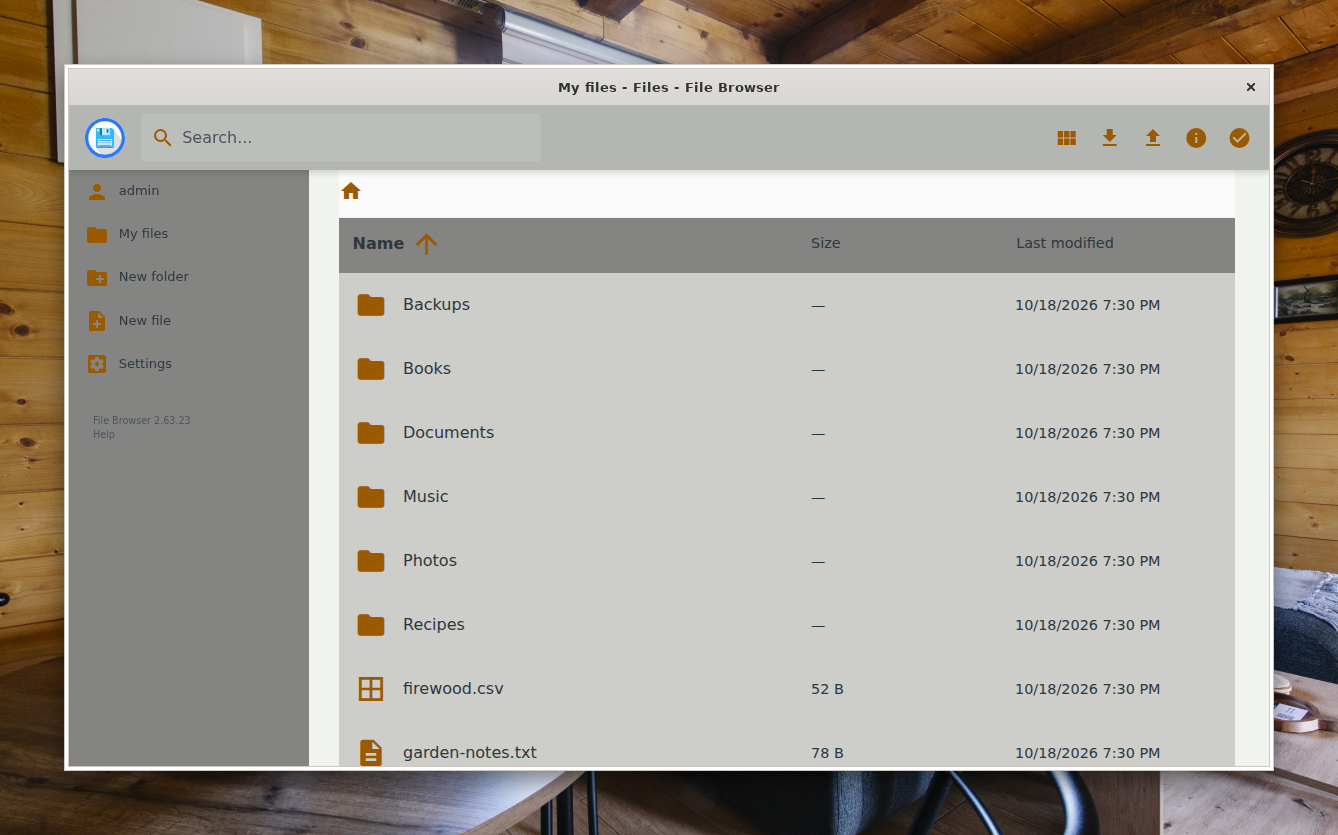
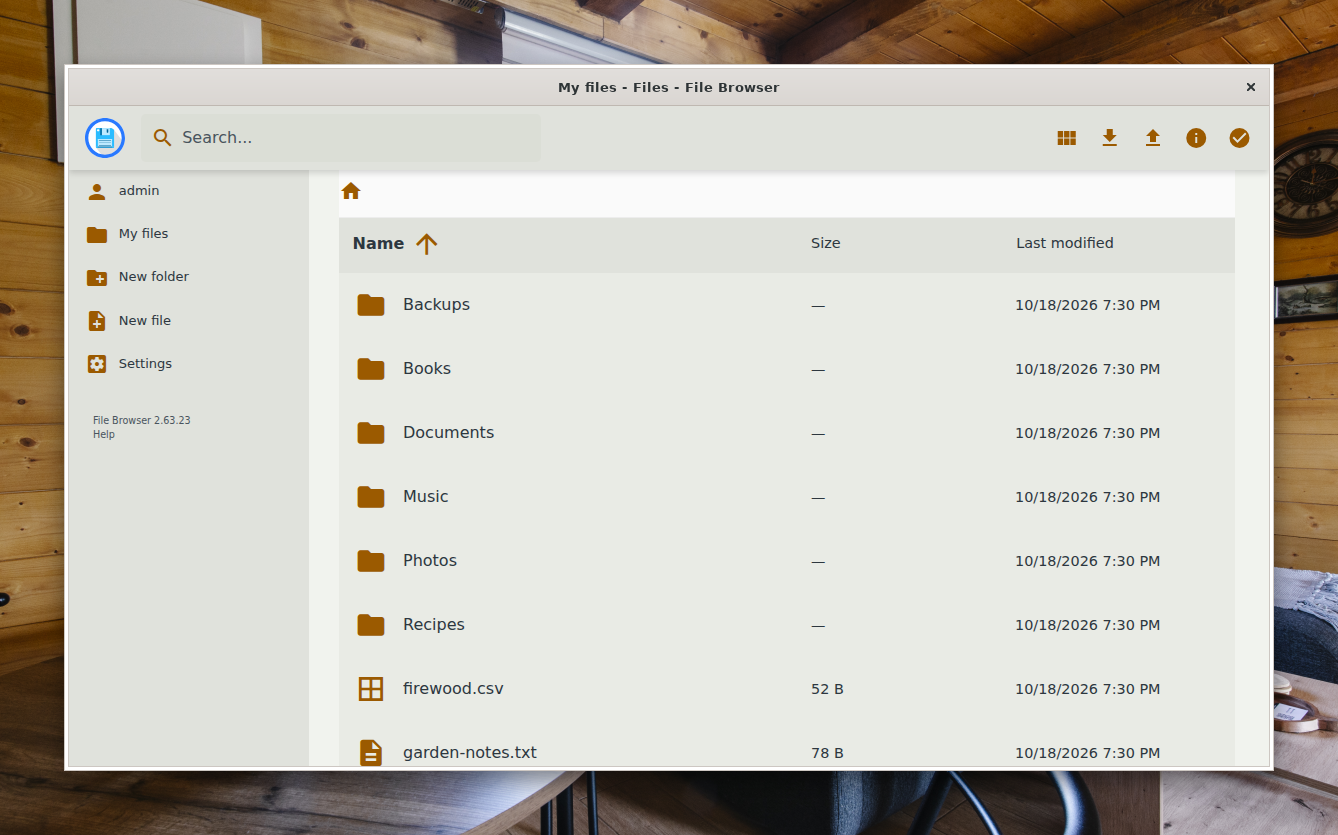
Record owner approval: Tested with lines, solid theme.park tints (#108)
* Record owner approval: Tested with lines, solid theme.park tints

- Set "Tested with" on the 41 ports the owner approved, from each recipe's app
  version and the OS it shot.
- theme.park: override theme.park's see-through tints with solid neutrals, so
  Day's header, sidebar and rows match the other Day ports. New shots.
- Bash MAPPING: the owner kept the accent wash for paste.

* Set theme.park's Tested with line

---------

diff --git a/Ports/theme-park/template/{{variant.slug}}.css b/Ports/theme-park/template/{{variant.slug}}.css
@@ -67,4 +67,47 @@
   --plex-poster-unwatched: {{ivy}};
   --gitea-color-primary-dark-4: var(--accent-color);
   --overseerr-gradient: linear-gradient(var(--main-bg-color), var(--main-bg-color));
+
+  /* theme.park's base CSS lays see-through black and white tints over
+     headers, sidebars, rows and inputs. The theme is solid, so each tint
+     is a neutral: light black tints are deep, heavier ones deeper, and
+     white tints (hover and focus) are hover, or raised at the top. */
+  --transparency-dark-05: {{deep}};
+  --transparency-dark-10: {{deep}};
+  --transparency-dark-15: {{deep}};
+  --transparency-dark-20: {{deep}};
+  --transparency-dark-25: {{deeper}};
+  --transparency-dark-30: {{deeper}};
+  --transparency-dark-35: {{deeper}};
+  --transparency-dark-40: {{deeper}};
+  --transparency-dark-45: {{deeper}};
+  --transparency-dark-50: {{deeper}};
+  --transparency-dark-55: {{deeper}};
+  --transparency-dark-60: {{deeper}};
+  --transparency-dark-65: {{deeper}};
+  --transparency-dark-70: {{deeper}};
+  --transparency-dark-75: {{deeper}};
+  --transparency-dark-80: {{deeper}};
+  --transparency-dark-85: {{deeper}};
+  --transparency-dark-90: {{deeper}};
+  --transparency-dark-95: {{deeper}};
+  --transparency-light-05: {{hover}};
+  --transparency-light-10: {{hover}};
+  --transparency-light-15: {{hover}};
+  --transparency-light-20: {{hover}};
+  --transparency-light-25: {{hover}};
+  --transparency-light-30: {{hover}};
+  --transparency-light-35: {{hover}};
+  --transparency-light-40: {{hover}};
+  --transparency-light-45: {{hover}};
+  --transparency-light-50: {{hover}};
+  --transparency-light-55: {{hover}};
+  --transparency-light-60: {{hover}};
+  --transparency-light-65: {{hover}};
+  --transparency-light-70: {{hover}};
+  --transparency-light-75: {{hover}};
+  --transparency-light-80: {{hover}};
+  --transparency-light-85: {{hover}};
+  --transparency-light-90: {{raised}};
+  --transparency-light-95: {{raised}};
 }

diff --git a/Ports/theme-park/dist/day/inglenook-day.css b/Ports/theme-park/dist/day/inglenook-day.css
@@ -67,4 +67,47 @@
   --plex-poster-unwatched: #135b42;
   --gitea-color-primary-dark-4: var(--accent-color);
   --overseerr-gradient: linear-gradient(var(--main-bg-color), var(--main-bg-color));
+
+  /* theme.park's base CSS lays see-through black and white tints over
+     headers, sidebars, rows and inputs. The theme is solid, so each tint
+     is a neutral: light black tints are deep, heavier ones deeper, and
+     white tints (hover and focus) are hover, or raised at the top. */
+  --transparency-dark-05: #e9ebe5;
+  --transparency-dark-10: #e9ebe5;
+  --transparency-dark-15: #e9ebe5;
+  --transparency-dark-20: #e9ebe5;
+  --transparency-dark-25: #e0e2dc;
+  --transparency-dark-30: #e0e2dc;
+  --transparency-dark-35: #e0e2dc;
+  --transparency-dark-40: #e0e2dc;
+  --transparency-dark-45: #e0e2dc;
+  --transparency-dark-50: #e0e2dc;
+  --transparency-dark-55: #e0e2dc;
+  --transparency-dark-60: #e0e2dc;
+  --transparency-dark-65: #e0e2dc;
+  --transparency-dark-70: #e0e2dc;
+  --transparency-dark-75: #e0e2dc;
+  --transparency-dark-80: #e0e2dc;
+  --transparency-dark-85: #e0e2dc;
+  --transparency-dark-90: #e0e2dc;
+  --transparency-dark-95: #e0e2dc;
+  --transparency-light-05: #dbded6;
+  --transparency-light-10: #dbded6;
+  --transparency-light-15: #dbded6;
+  --transparency-light-20: #dbded6;
+  --transparency-light-25: #dbded6;
+  --transparency-light-30: #dbded6;
+  --transparency-light-35: #dbded6;
+  --transparency-light-40: #dbded6;
+  --transparency-light-45: #dbded6;
+  --transparency-light-50: #dbded6;
+  --transparency-light-55: #dbded6;
+  --transparency-light-60: #dbded6;
+  --transparency-light-65: #dbded6;
+  --transparency-light-70: #dbded6;
+  --transparency-light-75: #dbded6;
+  --transparency-light-80: #dbded6;
+  --transparency-light-85: #dbded6;
+  --transparency-light-90: #f9fbf8;
+  --transparency-light-95: #f9fbf8;
 }

diff --git a/Ports/theme-park/dist/night/inglenook-night.css b/Ports/theme-park/dist/night/inglenook-night.css
@@ -67,4 +67,47 @@
   --plex-poster-unwatched: #5c947c;
   --gitea-color-primary-dark-4: var(--accent-color);
   --overseerr-gradient: linear-gradient(var(--main-bg-color), var(--main-bg-color));
+
+  /* theme.park's base CSS lays see-through black and white tints over
+     headers, sidebars, rows and inputs. The theme is solid, so each tint
+     is a neutral: light black tints are deep, heavier ones deeper, and
+     white tints (hover and focus) are hover, or raised at the top. */
+  --transparency-dark-05: #171412;
+  --transparency-dark-10: #171412;
+  --transparency-dark-15: #171412;
+  --transparency-dark-20: #171412;
+  --transparency-dark-25: #12100e;
+  --transparency-dark-30: #12100e;
+  --transparency-dark-35: #12100e;
+  --transparency-dark-40: #12100e;
+  --transparency-dark-45: #12100e;
+  --transparency-dark-50: #12100e;
+  --transparency-dark-55: #12100e;
+  --transparency-dark-60: #12100e;
+  --transparency-dark-65: #12100e;
+  --transparency-dark-70: #12100e;
+  --transparency-dark-75: #12100e;
+  --transparency-dark-80: #12100e;
+  --transparency-dark-85: #12100e;
+  --transparency-dark-90: #12100e;
+  --transparency-dark-95: #12100e;
+  --transparency-light-05: #312e2c;
+  --transparency-light-10: #312e2c;
+  --transparency-light-15: #312e2c;
+  --transparency-light-20: #312e2c;
+  --transparency-light-25: #312e2c;
+  --transparency-light-30: #312e2c;
+  --transparency-light-35: #312e2c;
+  --transparency-light-40: #312e2c;
+  --transparency-light-45: #312e2c;
+  --transparency-light-50: #312e2c;
+  --transparency-light-55: #312e2c;
+  --transparency-light-60: #312e2c;
+  --transparency-light-65: #312e2c;
+  --transparency-light-70: #312e2c;
+  --transparency-light-75: #312e2c;
+  --transparency-light-80: #312e2c;
+  --transparency-light-85: #312e2c;
+  --transparency-light-90: #262321;
+  --transparency-light-95: #262321;
 }

diff --git a/Ports/theme-park/MAPPING.md b/Ports/theme-park/MAPPING.md
@@ -25,12 +25,16 @@ The port is one theme option per variant: the variables theme.park's per-app bas
 | `--plex-poster-unwatched` | ivy | A badge on posters that carries no state, so a detail color |
 | `--gitea-color-primary-dark-4` | `var(--accent-color)` | Same as Catppuccin and theme.park's own options |
 | `--overseerr-gradient` | `linear-gradient(var(--main-bg-color), var(--main-bg-color))` | Overseerr needs a gradient here. A gradient of one solid color is a solid page |
+| `--transparency-dark-05` to `-20` | deep | theme.park's light black tints: rows, cards, search boxes. A step below the page |
+| `--transparency-dark-25` to `-95` | deeper | Heavier black tints: the header, the sidebar, column headings, inputs. The most recessed surfaces |
+| `--transparency-light-05` to `-85` | hover | White tints mark hover and focus (a hovered row, the search field) |
+| `--transparency-light-90`, `-95` | raised | Near-opaque white: a lifted surface |
 | `--petio-spinner` | not set | It is a CSS `filter` chain that tints Petio's spinner from black. Those numbers encode a color outside the palette, so the port leaves it out and the spinner keeps its own color |
 
 ## Gaps and trade-offs
 
 - Tier 2. theme.park's theme options are about fifteen variables: surfaces, buttons, text, links and one accent. Status colors (errors, warnings, health), charts, syntax and posters stay as each app or base file draws them.
-- theme.park's base CSS sets `--transparency-dark-*` and `--transparency-light-*` (black and white at 5 to 95% alpha) and lays them over sidebars, headers, rows and menus. They are not part of a theme option and the port does not override them: making them solid would hide what sits under them. The README names this under Known limits. It shows most in Day, where dark tints turn the File Browser header and sidebar gray.
+- theme.park's base CSS sets `--transparency-dark-*` and `--transparency-light-*` (black and white at 5 to 95% alpha) and lays them over sidebars, headers, rows, inputs and menus. The theme option overrides every one with a solid neutral (table above), so surfaces stay solid: in Day the dark tints had turned the File Browser header, sidebar and rows gray. Where an app lays a tint over a picture (a poster, a backdrop), the solid neutral now covers the picture.
 - theme.park is built for dark themes (Catppuccin says so for its light flavor). Some base files use white text or light tints that assume a dark page. Day ships anyway, with the limit in the README.
 - File Browser's breadcrumb bar comes from File Browser's own light or dark mode, not from theme.park: near-white in Day, a dark blue-gray in Night. The scene sets the mode to match the variant (dark for Night), as a reader would; with the light mode, Night showed a white bar.
 - Not in the scene: modals, menus, buttons and their hover (`--button-*`, `--modal-*`, `--drop-down-menu-bg`), links (File Browser shows none in the listing), `--label-text-color`, and the app-specific specials (Servarr queue, Plex, Gitea, Overseerr). They follow the same roles as what the scene shows.
@@ -51,4 +55,4 @@ The port is one theme option per variant: the variables theme.park's per-app bas
   - That stylesheet reaches the page through File Browser's own branding folder (`custom.css`, https://github.com/filebrowser/filebrowser/blob/master/docs/customization.md) in place of Stylus, the Docker mod or `sub_filter`, which all add the same two stylesheets.
   - File Browser's own mode (Settings, Global Settings) is set to dark for Night and light for Day in the scene's database.
 - `build/photograph/scenes/web/theme-park/`: `stage.sh` writes a small folder with fixed dates and File Browser's database (absolute dates, no disk-usage meter, no external links); `serve.sh` starts File Browser on 127.0.0.1:8080 and opens it in the web scene's browser.
-- **Shown:** base (the listing), the accent (folder and file icons, header buttons, the sort arrow, sidebar icons), text (file names), dim (sizes and dates), and theme.park's dark tints over the header and sidebar.
+- **Shown:** base (the listing), the accent (folder and file icons, header buttons, the sort arrow, sidebar icons), text (file names), dim (sizes and dates), and the solid tints: deeper on the header, sidebar and column headings, deep on the rows.

diff --git a/Ports/bash/MAPPING.md b/Ports/bash/MAPPING.md
@@ -31,7 +31,7 @@ When `LS_COLORS` is already set (dircolors on Debian, Ubuntu, Mint and Fedora, o
 
 ## Gaps and trade-offs
 
-- Readline has one highlight (the active region) for the selection, a paste and the history search match. The Zsh port gives them three colors (`region` accent wash, `isearch` accent fill with `on_accent`, `paste` `hover`). Here all three are the accent wash: it is the only choice that keeps the selection a firelight wash, and the search match is still firelight, the match at the cursor. Paste differs from the owner's Zsh decision (hover). Owner to confirm.
+- Readline has one highlight (the active region) for the selection, a paste and the history search match. The Zsh port gives them three colors (`region` accent wash, `isearch` accent fill with `on_accent`, `paste` `hover`). Here all three are the accent wash: it is the only choice that keeps the selection a firelight wash, and the search match is still firelight, the match at the cursor. Paste differs from the Zsh port (hover); the owner kept the accent wash so the selection stays firelight.
 - Readline reads `LS_COLORS` once, when it starts (`readline_initialize_everything` in `lib/readline/readline.c`), and only if `colored-stats` or `colored-completion-prefix` is already on then. A `bind 'set colored-stats on'` in `~/.bashrc` runs after Readline starts (the `bind` builtin starts it), so the list falls back to Readline's built-in ANSI defaults. That is why the settings live in `~/.inputrc`, and why the port needs two files and two install lines.
 - Readline reads `LS_COLORS` through Bash's own variable lookup (`sh_get_env_value` in `variables.c` calls `get_string_value`), so an unexported shell variable works. Checked in Bash 5.2.21.
 - With `LS_COLORS` already set, the list's file colors are the reader's, not the theme's. On Mint (the screenshot) they are dircolors' ANSI colors, which an Inglenook terminal draws as steel, pine, moss and so on.

diff --git a/Ports/theme-park/README.md b/Ports/theme-park/README.md
@@ -2,7 +2,7 @@
 
 **Tier:** 2 Partial\
 **Variants:** Inglenook Day, Inglenook Night\
-**Tested with:** Not tested yet
+**Tested with:** theme.park at commit edfecad with File Browser 2.63.23 on Linux Mint 22.3, in Chromium 158
 
 | Day | Night |
 |---|---|
@@ -108,10 +108,10 @@ theme.park cannot follow the OS light or dark setting.
 ## Known limits
 
 - theme.park sets a few colors per app: backgrounds, popups, buttons, text, links and the accent. Status colors, charts and posters keep each app's own colors.
-- theme.park's base stylesheets lay see-through dark and light tints over some surfaces, such as table rows, menus and sidebars. They show the background through them and cannot be turned off from a theme.
-- theme.park is made for dark themes. Inglenook Day works, but some apps keep white labels or dark tints that suit a dark page better.
+- theme.park is made for dark themes. Inglenook Day works, but some apps keep white labels that suit a dark page better.
 - Parts theme.park does not reach keep the app's own look. If the app has its own light and dark mode, pick dark with Inglenook Night and light with Inglenook Day. In File Browser it is under **Settings**, **Global Settings**.
 - The Petio loading spinner keeps its own color.
+- Where an app shades a poster or backdrop picture, the shade is solid, so it covers the picture.
 
 ## Sources
 

diff --git a/Ports/zsh-history-substring-search/README.md b/Ports/zsh-history-substring-search/README.md
@@ -2,7 +2,7 @@
 
 **Tier:** 1 Full\
 **Variants:** Inglenook Day, Inglenook Night\
-**Tested with:** Not tested yet
+**Tested with:** zsh-history-substring-search at commit 400e58a on Linux Mint 22.3, in GNOME Terminal 3.52.0
 
 | Day | Night |
 |---|---|

diff --git a/Ports/psreadline/README.md b/Ports/psreadline/README.md
@@ -2,7 +2,7 @@
 
 **Tier:** 1 Full\
 **Variants:** Inglenook Day, Inglenook Night\
-**Tested with:** Not tested yet
+**Tested with:** PSReadLine as shipped with PowerShell 7.6.10 on Linux Mint 22.3, in GNOME Terminal 3.52.0
 
 | Day | Night |
 |---|---|

diff --git a/Ports/zsh-autosuggestions/README.md b/Ports/zsh-autosuggestions/README.md
@@ -2,7 +2,7 @@
 
 **Tier:** 1 Full\
 **Variants:** Inglenook Day, Inglenook Night\
-**Tested with:** Not tested yet
+**Tested with:** zsh-autosuggestions at commit 85919cd on Linux Mint 22.3, in GNOME Terminal 3.52.0
 
 | Day | Night |
 |---|---|

diff --git a/Ports/zsh-syntax-highlighting/README.md b/Ports/zsh-syntax-highlighting/README.md
@@ -2,7 +2,7 @@
 
 **Tier:** 1 Full\
 **Variants:** Inglenook Day, Inglenook Night\
-**Tested with:** Not tested yet
+**Tested with:** zsh-syntax-highlighting 0.8.0 on Linux Mint 22.3, in GNOME Terminal 3.52.0
 
 | Day | Night |
 |---|---|

diff --git a/Ports/claude-code/README.md b/Ports/claude-code/README.md
@@ -2,7 +2,7 @@
 
 **Tier:** 2 Partial\
 **Variants:** Inglenook Day, Inglenook Night\
-**Tested with:** Not tested yet
+**Tested with:** Claude Code 2.1.326 on Linux Mint 22.3, in GNOME Terminal 3.52.0
 
 | Day | Night |
 |---|---|

diff --git a/Ports/gh/README.md b/Ports/gh/README.md
@@ -2,7 +2,7 @@
 
 **Tier:** 2 Partial\
 **Variants:** Inglenook Day, Inglenook Night\
-**Tested with:** Not tested yet
+**Tested with:** GitHub CLI 2.106.0 on Linux Mint 22.3, in GNOME Terminal 3.52.0
 
 | Day | Night |
 |---|---|
